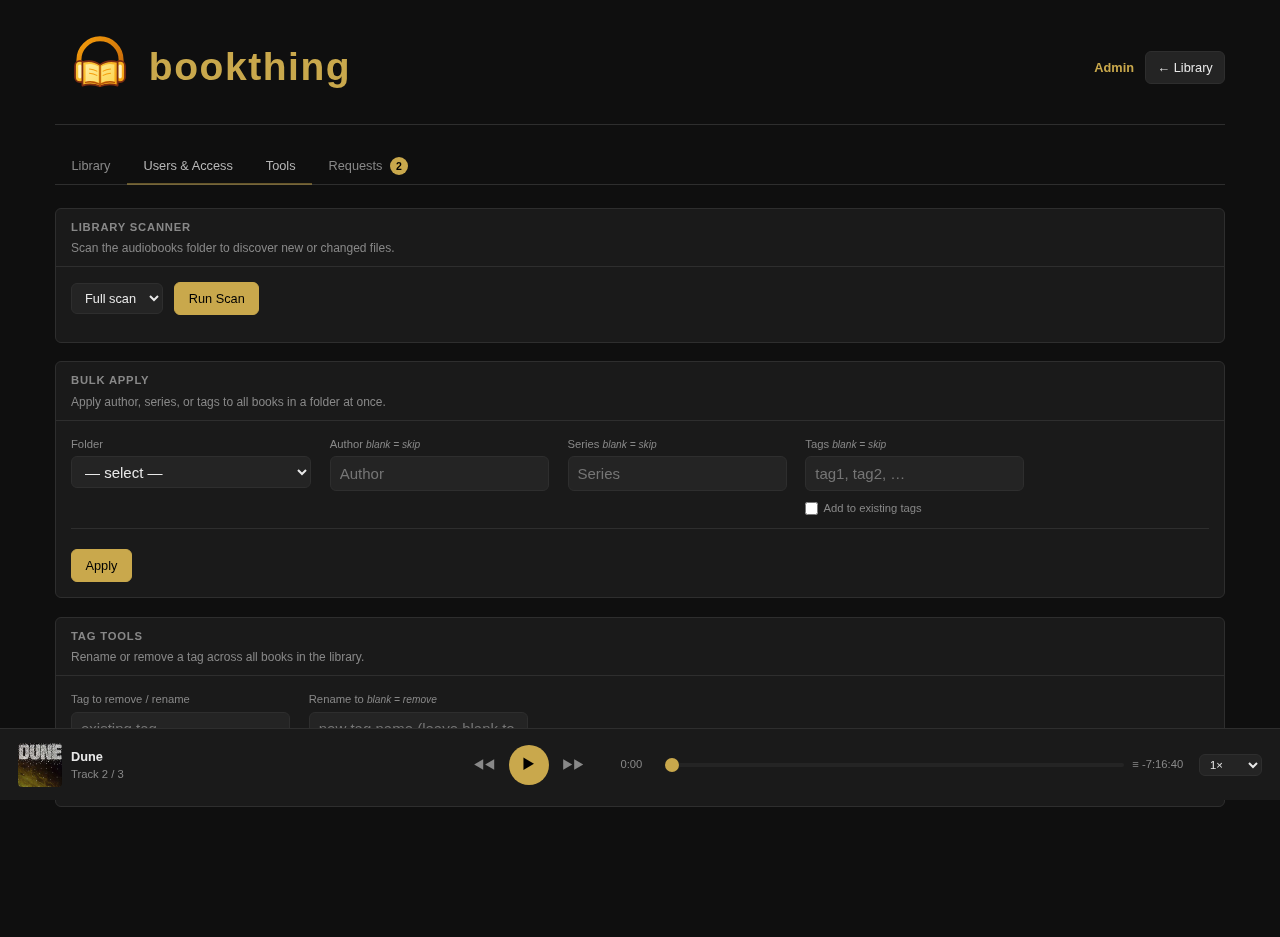
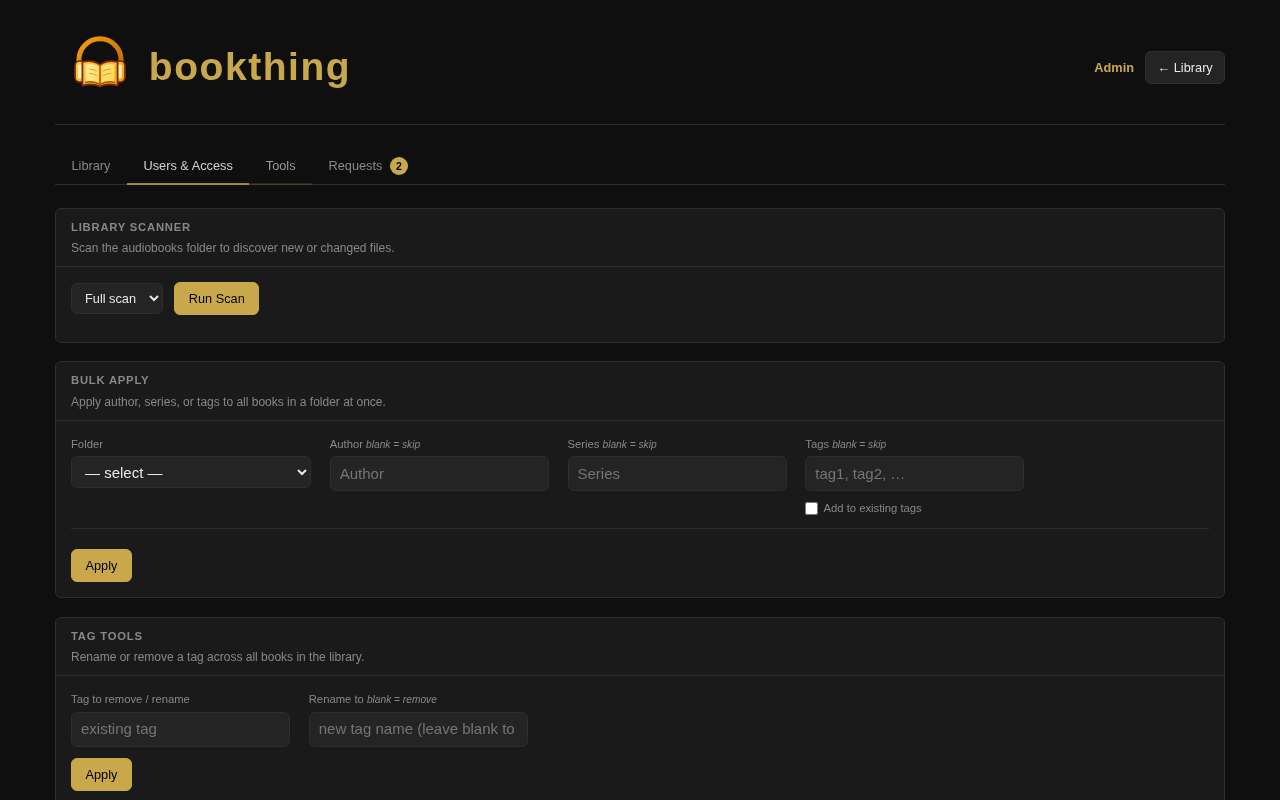
Fix admin screenshots: remove player bar and crop to viewport
Use a fresh browser context for admin screenshots to prevent the
persistent player bar from appearing. Remove full_page=True so
screenshots are viewport-sized rather than full scrollable height.

diff --git a/scripts/screenshot.py b/scripts/screenshot.py
@@ -422,34 +422,47 @@ def main():
                 print(f"  Saved {OUTPUT_DIR / 'library.png'}")
                 print(f"  Saved {OUTPUT_DIR / 'player.png'}")
 
-                # --- admin-library.png ---
+                # --- admin screenshots (fresh context to avoid player bar) ---
+                admin_context = browser.new_context(
+                    viewport={"width": 1280, "height": 800},
+                )
+                admin_context.add_cookies([{
+                    "name": "session",
+                    "value": session_id,
+                    "domain": "127.0.0.1",
+                    "path": "/",
+                }])
+                admin_page = admin_context.new_page()
+
                 print("Capturing admin-library.png ...")
-                page.goto(f"{base_url}/admin")
-                page.wait_for_selector(".admin-tab-btn", timeout=10000)
-                page.wait_for_load_state("networkidle", timeout=10000)
-                page.screenshot(path=str(OUTPUT_DIR / "admin-library.png"), full_page=True)
+                admin_page.goto(f"{base_url}/admin")
+                admin_page.wait_for_selector(".admin-tab-btn", timeout=10000)
+                admin_page.wait_for_load_state("networkidle", timeout=10000)
+                admin_page.screenshot(path=str(OUTPUT_DIR / "admin-library.png"))
                 print(f"  Saved {OUTPUT_DIR / 'admin-library.png'}")
 
                 # --- admin-users.png ---
                 print("Capturing admin-users.png ...")
-                page.locator(".admin-tab-btn[data-tab='users']").click()
-                page.wait_for_load_state("networkidle", timeout=10000)
-                page.screenshot(path=str(OUTPUT_DIR / "admin-users.png"), full_page=True)
+                admin_page.locator(".admin-tab-btn[data-tab='users']").click()
+                admin_page.wait_for_load_state("networkidle", timeout=10000)
+                admin_page.screenshot(path=str(OUTPUT_DIR / "admin-users.png"))
                 print(f"  Saved {OUTPUT_DIR / 'admin-users.png'}")
 
                 # --- admin-tools.png ---
                 print("Capturing admin-tools.png ...")
-                page.locator(".admin-tab-btn[data-tab='tools']").click()
-                page.wait_for_load_state("networkidle", timeout=10000)
-                page.screenshot(path=str(OUTPUT_DIR / "admin-tools.png"), full_page=True)
+                admin_page.locator(".admin-tab-btn[data-tab='tools']").click()
+                admin_page.wait_for_load_state("networkidle", timeout=10000)
+                admin_page.screenshot(path=str(OUTPUT_DIR / "admin-tools.png"))
                 print(f"  Saved {OUTPUT_DIR / 'admin-tools.png'}")
 
                 # --- admin-requests.png ---
                 print("Capturing admin-requests.png ...")
-                page.locator(".admin-tab-btn[data-tab='requests']").click()
-                page.wait_for_load_state("networkidle", timeout=10000)
-                page.screenshot(path=str(OUTPUT_DIR / "admin-requests.png"), full_page=True)
+                admin_page.locator(".admin-tab-btn[data-tab='requests']").click()
+                admin_page.wait_for_load_state("networkidle", timeout=10000)
+                admin_page.screenshot(path=str(OUTPUT_DIR / "admin-requests.png"))
                 print(f"  Saved {OUTPUT_DIR / 'admin-requests.png'}")
+
+                admin_context.close()
 
                 # --- request-modal.png ---
                 print("Capturing request-modal.png ...")
